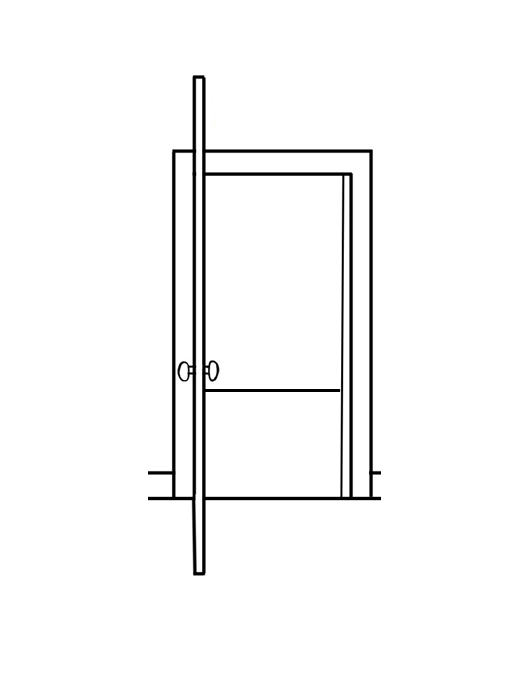
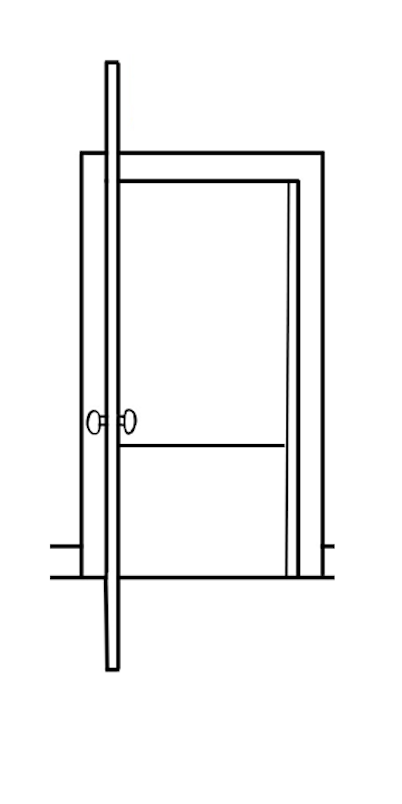
changes

Changed region(s): [[0.1194, 0.0624, 0.8358, 0.8737]]

diff --git a/index.html b/index.html
@@ -15,9 +15,13 @@
  </body>
  <script>
    //this is where we will write JavaScript code to control the experiments
+
+  //create timeline
+   var timeline = [];
+
    var jsPsych = initJsPsych({
       on_finish: function() {
-        jsPsych.data.displayData();
+        
       },
     extensions: [
       {
@@ -34,9 +38,7 @@
   );
 
   var subject_id = jsPsych.randomization.randomID(10);
-
-   //create timeline
-   var timeline = [];
+   
 
    //define preload trial
    var preload = {
@@ -49,6 +51,7 @@
       'images/lowcost_metersticks.png', 'images/nocost_metersticks.png',
       'images/lowcost_plant.png', 'images/nocost_plant.png',
       'images/lowcost_tape.png', 'images/nocost_tape.png',
+      'images/open_door.png', 'images/closed_door.png'
     ]
   };
 
@@ -98,6 +101,7 @@
 
   //add consent trial to timeline
   timeline.push(consent);
+
 
 //replication of Exp 2
 
@@ -161,9 +165,6 @@
      <p>Click any key to continue.</p>`
    };
 
-   //add introduction trial to timeline
-   timeline.push(introduction);
-
    // create an instruction trial
    var instruction =  {
     type: jsPsychHtmlKeyboardResponse,
@@ -175,8 +176,6 @@
     <p>Press any key to continue.</p>`
    };
    
-  //add instruction trial to timeline
-   timeline.push(instruction);
 
   //adding attention check trial
     var ac_options = jsPsych.randomization.shuffle(current_trial['text']); // text[0] is the correct object
@@ -192,16 +191,30 @@
       }
     };
 
-   //add attention check trial to timeline
-   timeline.push(attention_check);
+
+   //creating a loop for if they fail the attention check
+   var loop_attn_check = {
+    timeline: [introduction, instruction, attention_check],
+    loop_function: function(data){
+      if (data.values()[2].response === data.values()[2].correct_choice) {
+            return false;
+        } else {
+            return true;
+        }
+    }
+};
+
+//add loop with introduction, instruction, and attention check to timeline
+   timeline.push(loop_attn_check);
+
 
    //adding test trial
    var test_trial = {
     type: jsPsychHtmlButtonResponse,
     stimulus: `<p>Which door do you think someone was trying to tell you something?</p>`,
     prompt: "Click on the door that you think someone was trying to tell you something.",
-    choices: jsPsych.randomization.shuffle([`<img src="${current_trial['images'][0]}">`, 
-    `<img src="${current_trial['images'][1]}">`]),
+    choices: jsPsych.randomization.shuffle([`<img src="${current_trial['images'][0]}"+ width=300px + height=600px>`, 
+    `<img src="${current_trial['images'][1]}"+ width=300px + height=600px>`]),
     data: { correct_choice: current_trial['correct_image']},
       on_finish: function(data){
         data.correct = (data.response === data.correct_choice);
@@ -216,8 +229,8 @@
     type: jsPsychHtmlButtonResponse,
     stimulus: `<p>Which door requires more work to walk through?</p>`,
     prompt: `<p>Click on the door that requires more work to walk through.</p>`,
-    choices: jsPsych.randomization.shuffle([`<img src="${current_trial['images'][0]}">`, 
-    `<img src="${current_trial['images'][1]}">`, 'Both doors are equally easy to walk through']),
+    choices: jsPsych.randomization.shuffle([`<img src="${current_trial['images'][0]}"+ width=300px + height=600px>`, 
+    `<img src="${current_trial['images'][1]}"+ width=300px + height=600px>`, 'Both doors are equally easy to walk through']),
     data: { correct_choice: current_trial['correct_image']},
       on_finish: function(data){
         data.correct = (data.response === data.correct_choice);
@@ -232,9 +245,11 @@
     type: jsPsychHtmlKeyboardResponse,
     stimulus: 
     `<p>Think back to the door you chose as the one where someone was trying to tell you something.</p>
-    <p>Do you think you would be able to walk through this door if you wanted to?</p>
-    ${jsPsych.randomization.shuffle([`<img src="${current_trial['images'][0]}">`, 
-    `<img src="${current_trial['images'][1]}">`])}`,
+    <p>Do you think you would be able to walk through this door if you wanted to?</p>` +
+      jsPsych.randomization.shuffle([
+        `<img src="${current_trial['images'][0]}" + width=300px + height=600px>`,
+        `<img src="${current_trial['images'][1]}" + width=300px + height=600px>`
+      ]).join(''),
     prompt: 
     `<p>press Y for Yes</p>
     <p>press N for No</p>`,
@@ -247,9 +262,7 @@
    //end the for loop here
  }
 
-
-
- //replication of Exp 3
+  //replication of Exp 3
 
 //add the test stimuli
  var test_stimuli_2 = [
@@ -348,9 +361,11 @@
    //adding test trial
    var test_trial_2 = {
     type: jsPsychHtmlButtonResponse,
-    stimulus: `<p>What do you think someone was trying to tell you about the door with ${current_trial_2['text'][0]}?</p>
-    ${jsPsych.randomization.shuffle([`<img src="${current_trial_2['images'][0]}">`, 
-    `<img src="${current_trial_2['images'][1]}">`])}`,
+    stimulus: `<p>What do you think someone was trying to tell you about the door with ${current_trial_2['text'][0]}?</p>` +
+      jsPsych.randomization.shuffle([
+        `<img src="${current_trial_2['images'][0]}" + width=300px + height=600px>`,
+        `<img src="${current_trial_2['images'][1]}" + width=300px + height=600px>`
+      ]).join(''),
     choices: [`"You <b>should</b> walk through the door with ${current_trial_2['text'][0]}"`,
     `"You <b>should not</b> walk through the door with ${current_trial_2['text'][0]}"`],
     data: { correct_choice: "You <b>should not</b> walk through the door with ${current_trial_2['text'][0]}"},
@@ -367,9 +382,9 @@
     type: jsPsychHtmlButtonResponse,
     stimulus: `<p>Which door requires more work to walk through?</p>`,
     prompt: `<p>Click on the door that requires more work to walk through.</p>`,
-    choices: jsPsych.randomization.shuffle([`<img src="${current_trial_2['images'][0]}">`, 
-    `<img src="${current_trial_2['images'][1]}">`, 'Both doors are equally easy to walk through']),
-    data: { correct_choice: current_trial['correct_image']},
+    choices: jsPsych.randomization.shuffle([`<img src="${current_trial_2['images'][0]}"+ width=300px + height=600px>`, 
+    `<img src="${current_trial_2['images'][1]}"+ width=300px + height=600px>`, 'Both doors are equally easy to walk through']),
+    data: { correct_choice: current_trial_2['correct_image']},
       on_finish: function(data){
         data.correct = (data.response === data.correct_choice);
       }
@@ -383,9 +398,11 @@
     type: jsPsychHtmlKeyboardResponse,
     stimulus: 
     `<p>Think back to the door you chose as the one where someone was trying to tell you something.</p>
-    <p>Do you think you would be able to walk through this door if you wanted to?</p>
-    ${jsPsych.randomization.shuffle([`<img src="${current_trial_2['images'][0]}">`, 
-    `<img src="${current_trial_2['images'][1]}">`])}`,
+    <p>Do you think you would be able to walk through this door if you wanted to?</p>` +
+      jsPsych.randomization.shuffle([
+        `<img src="${current_trial_2['images'][0]}" + width=300px + height=600px>`,
+        `<img src="${current_trial_2['images'][1]}" + width=300px + height=600px>`
+      ]).join(''),
     prompt: 
     `<p>press Y for Yes</p>
     <p>press N for No</p>`,
@@ -397,6 +414,20 @@
 
    //end the for loop here
  }
+
+ //debrief 
+ var debrief = {
+    type: jsPsychHtmlKeyboardResponse,
+    stimulus: `<p>Thank you for participating in the experiment. We are conducting research on reasoning. The current experiment is an attempted replication of the 
+      published paper, 'People can use the placement of objects to infer communicative goals' by Lopez-Brau & Jara-Ettinger, 2023. In this experiment, you were 
+      presented with two options and had to figure out which option another person wanted you to choose. The goal of this experiement is to investigate how humans 
+      infer the communicative meaning of objects from static scenes. If you have any remaining questions about this experiment, please reach out to the primary 
+      researcher (Anushka Laha: anlaha@ucsd.edu) or the supervisor Dr. Bria Long (brlong@ucsd.edu). Press any key to finish.</p>`
+  };
+  
+  //add debrief trial to timeline
+  timeline.push(debrief);
+
 
 
  //start the experiment
